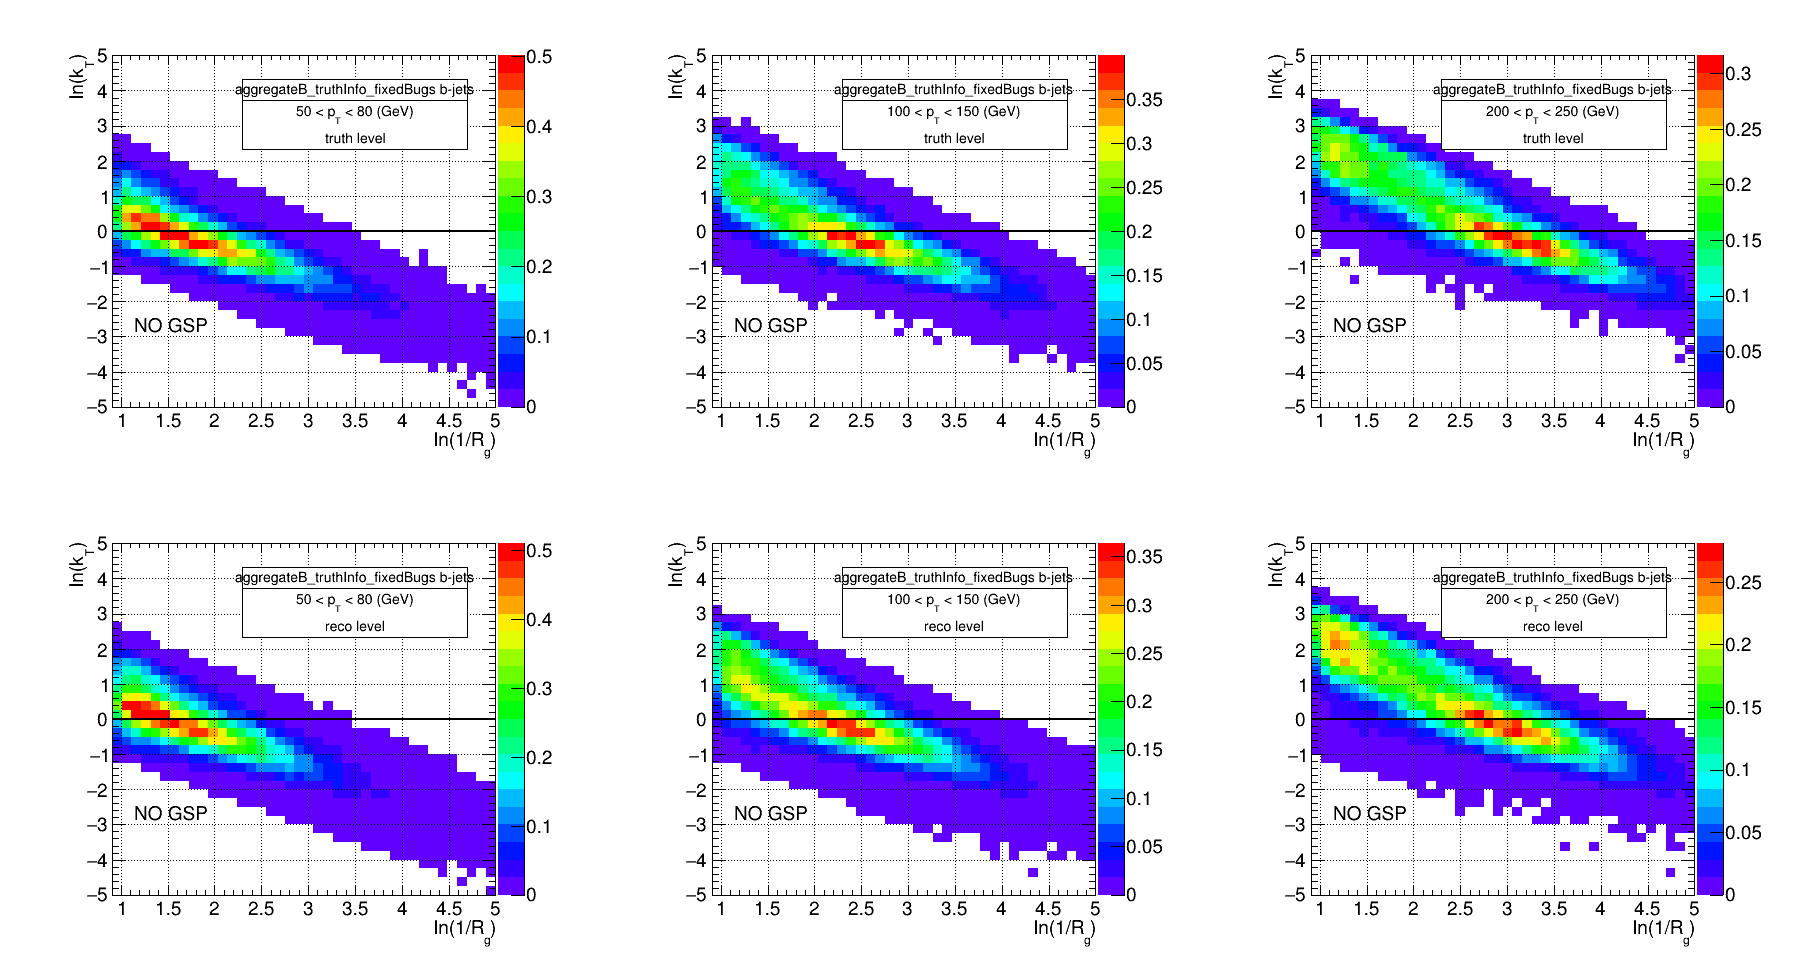
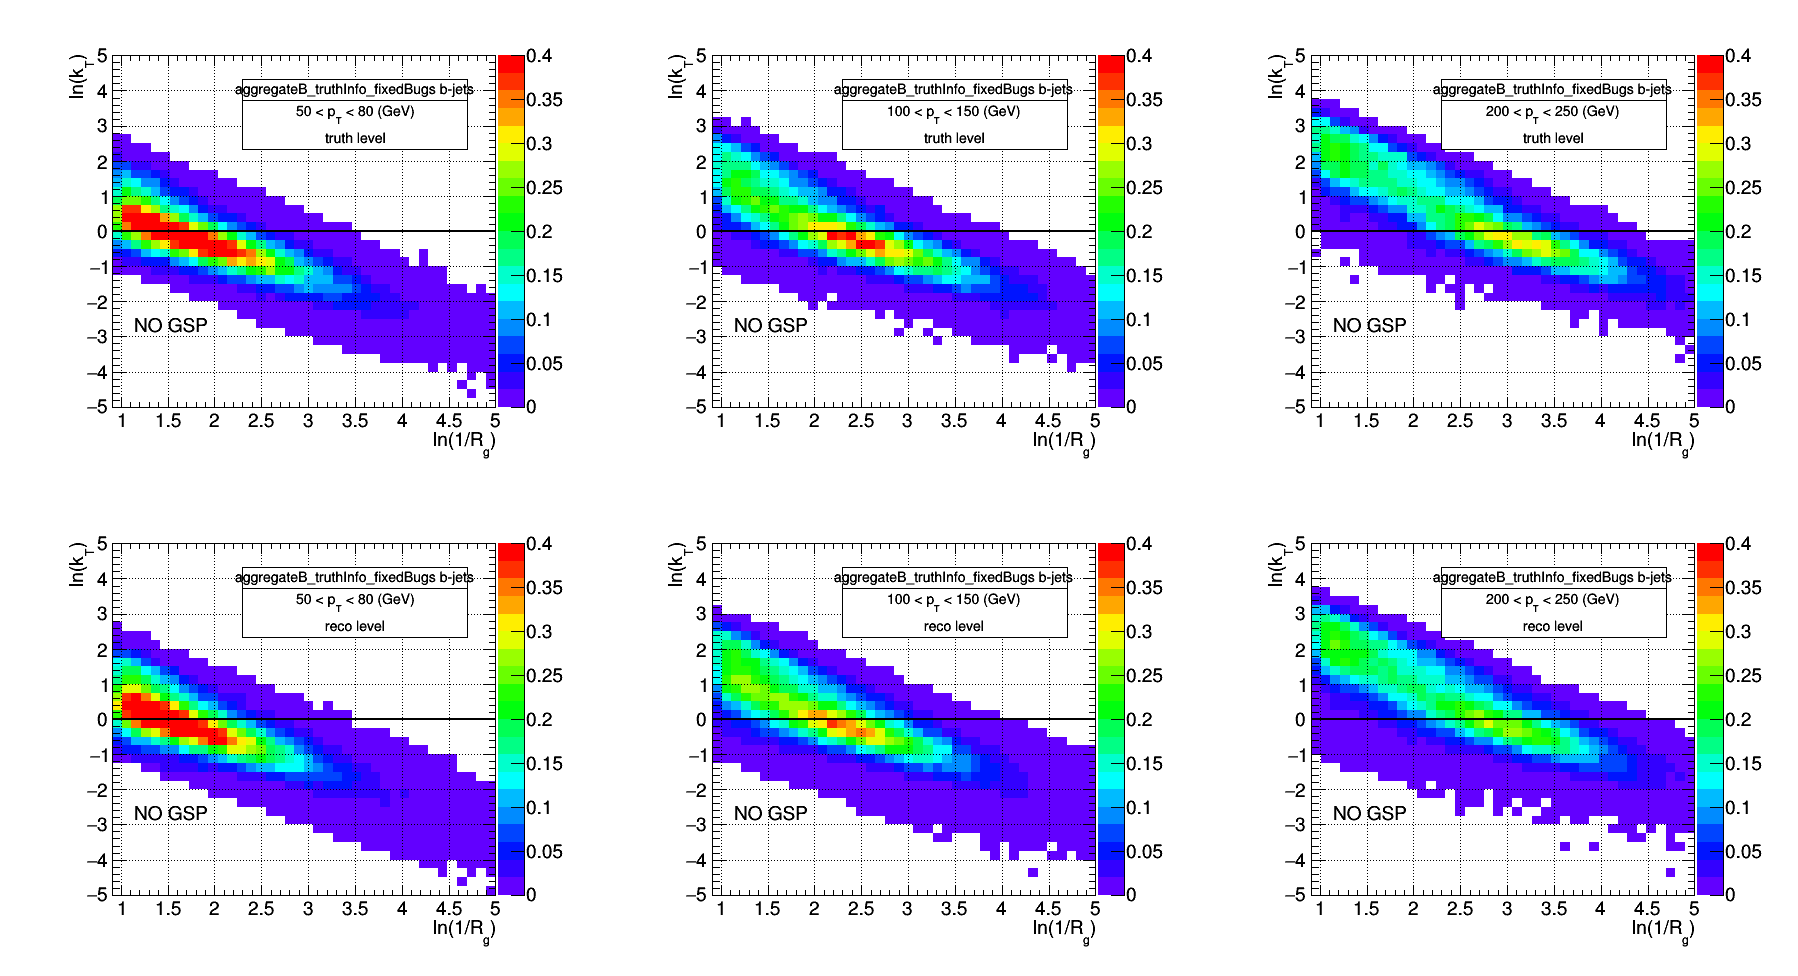
fix plots to have same zrange

diff --git a/myMacros/pt2dscan/aggregateB_truthInfo_fixedBugs/draw_aggregateB_truthInfo_fixedBugs.C b/myMacros/pt2dscan/aggregateB_truthInfo_fixedBugs/draw_aggregateB_truthInfo_fixedBugs.C
@@ -4,5 +4,5 @@ void draw_aggregateB_truthInfo_fixedBugs()
 {          
     std::string fname = "aggregateB_truthInfo_fixedBugs";
     HistDrawer_pt2dscan HD(fname);
-    HD.draw_pt2dscan(false);
+    HD.draw_pt2dscan(true);
 }
